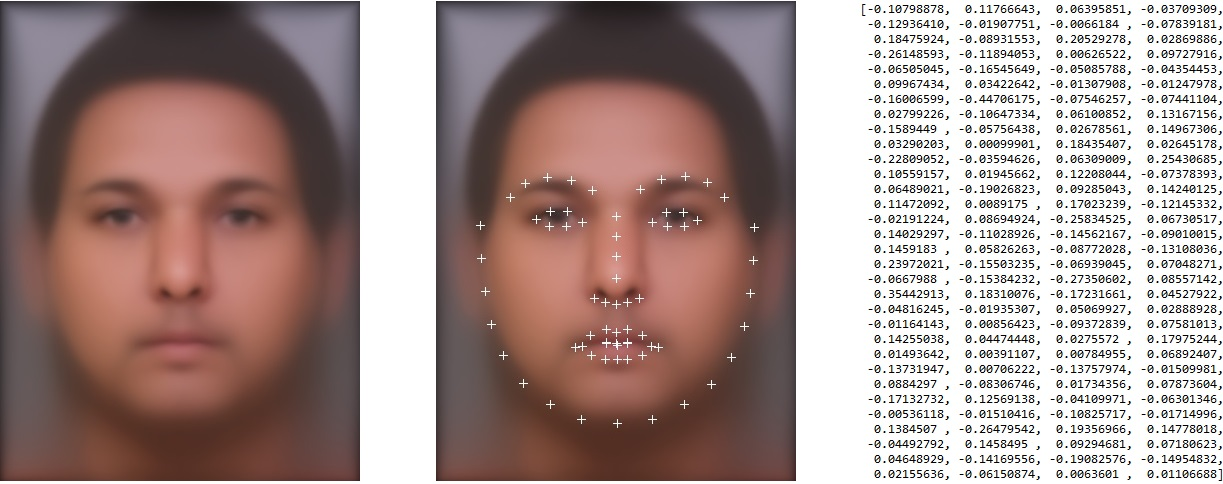
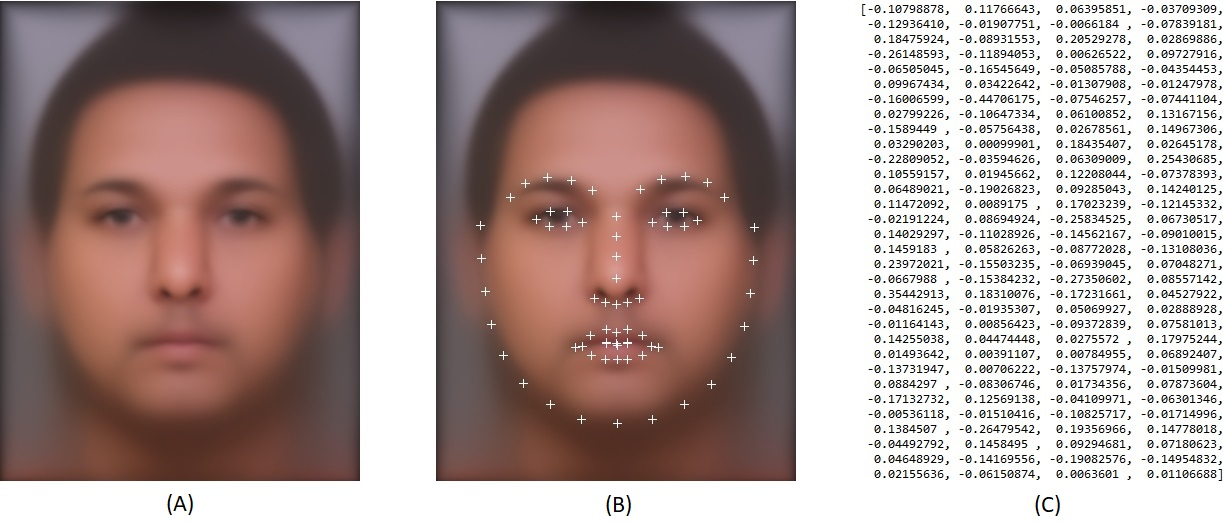
Copy updates

diff --git a/index.html b/index.html
@@ -79,7 +79,7 @@ height="0" width="0" style="display:none;visibility:hidden"></iframe></noscript>
     <h1 class="subtitle is-3">Overview</h1>
     <p>The metadata for face images include descriptors such as: ethnicity, gender, age, weight, height, eye color, and date picture taken. Additionally, pre-processing techniques were applied, including standardization of aspect ratio, image size, image alignment, tilt, noise reduction, standardized field of view, application of 64 feature points, and image encoding. This pre-processing significantly reduces the preparation time for your deep learning projects.</p>
 
-    <img class="img-body" src="img/features.png">
+    <img class="img-body img-s" src="img/features.png">
 
     <p>This dataset’s images are pre-processed and ready for modeling. Use cases include:</p>
     <li>Age/Health prediction</li>
@@ -97,6 +97,9 @@ height="0" width="0" style="display:none;visibility:hidden"></iframe></noscript>
     <p id="ctaoffset">Face images were acquired in real setting. The Histogram of Oriented Gradients Method by Dalal and Triggs was used to detect the face in each image [1]. Then, 68 facial landmarks were extracted using the face alignment method as presented by Kazemi and Josephine [2]. Those landmarks were used to parametrize an affine image transformation to normalize the images into a common template. Finally, 68 facial landmarks are extracted from the normalized images and a 128-dimensional vector is computed for each normalized image using the method presented by Schroff et al [3].
 
     <img class="img-body" src="img/groupwise.jpg">
+    <p>(A) Mean image following a groupwise registration of all images in the FACEMETA dataset
+    <br>(B) 68 facial landmarks extracted from the mean image
+    <br>(C) 128-dimensional vector embedded of the mean image</p>
 </div>
 
 <div class="site-section" >

diff --git a/css/facedataset.css b/css/facedataset.css
@@ -72,11 +72,13 @@ p {
 }
 
 .img-body {
-  margin-top: 10px;
+  margin-top: 20px;
   margin-left: 20px;
   margin-bottom: 20px;
   width: 70%;
+  display: block;
 }
+
 
 @media (max-width: 900px) {
   .site-body {
